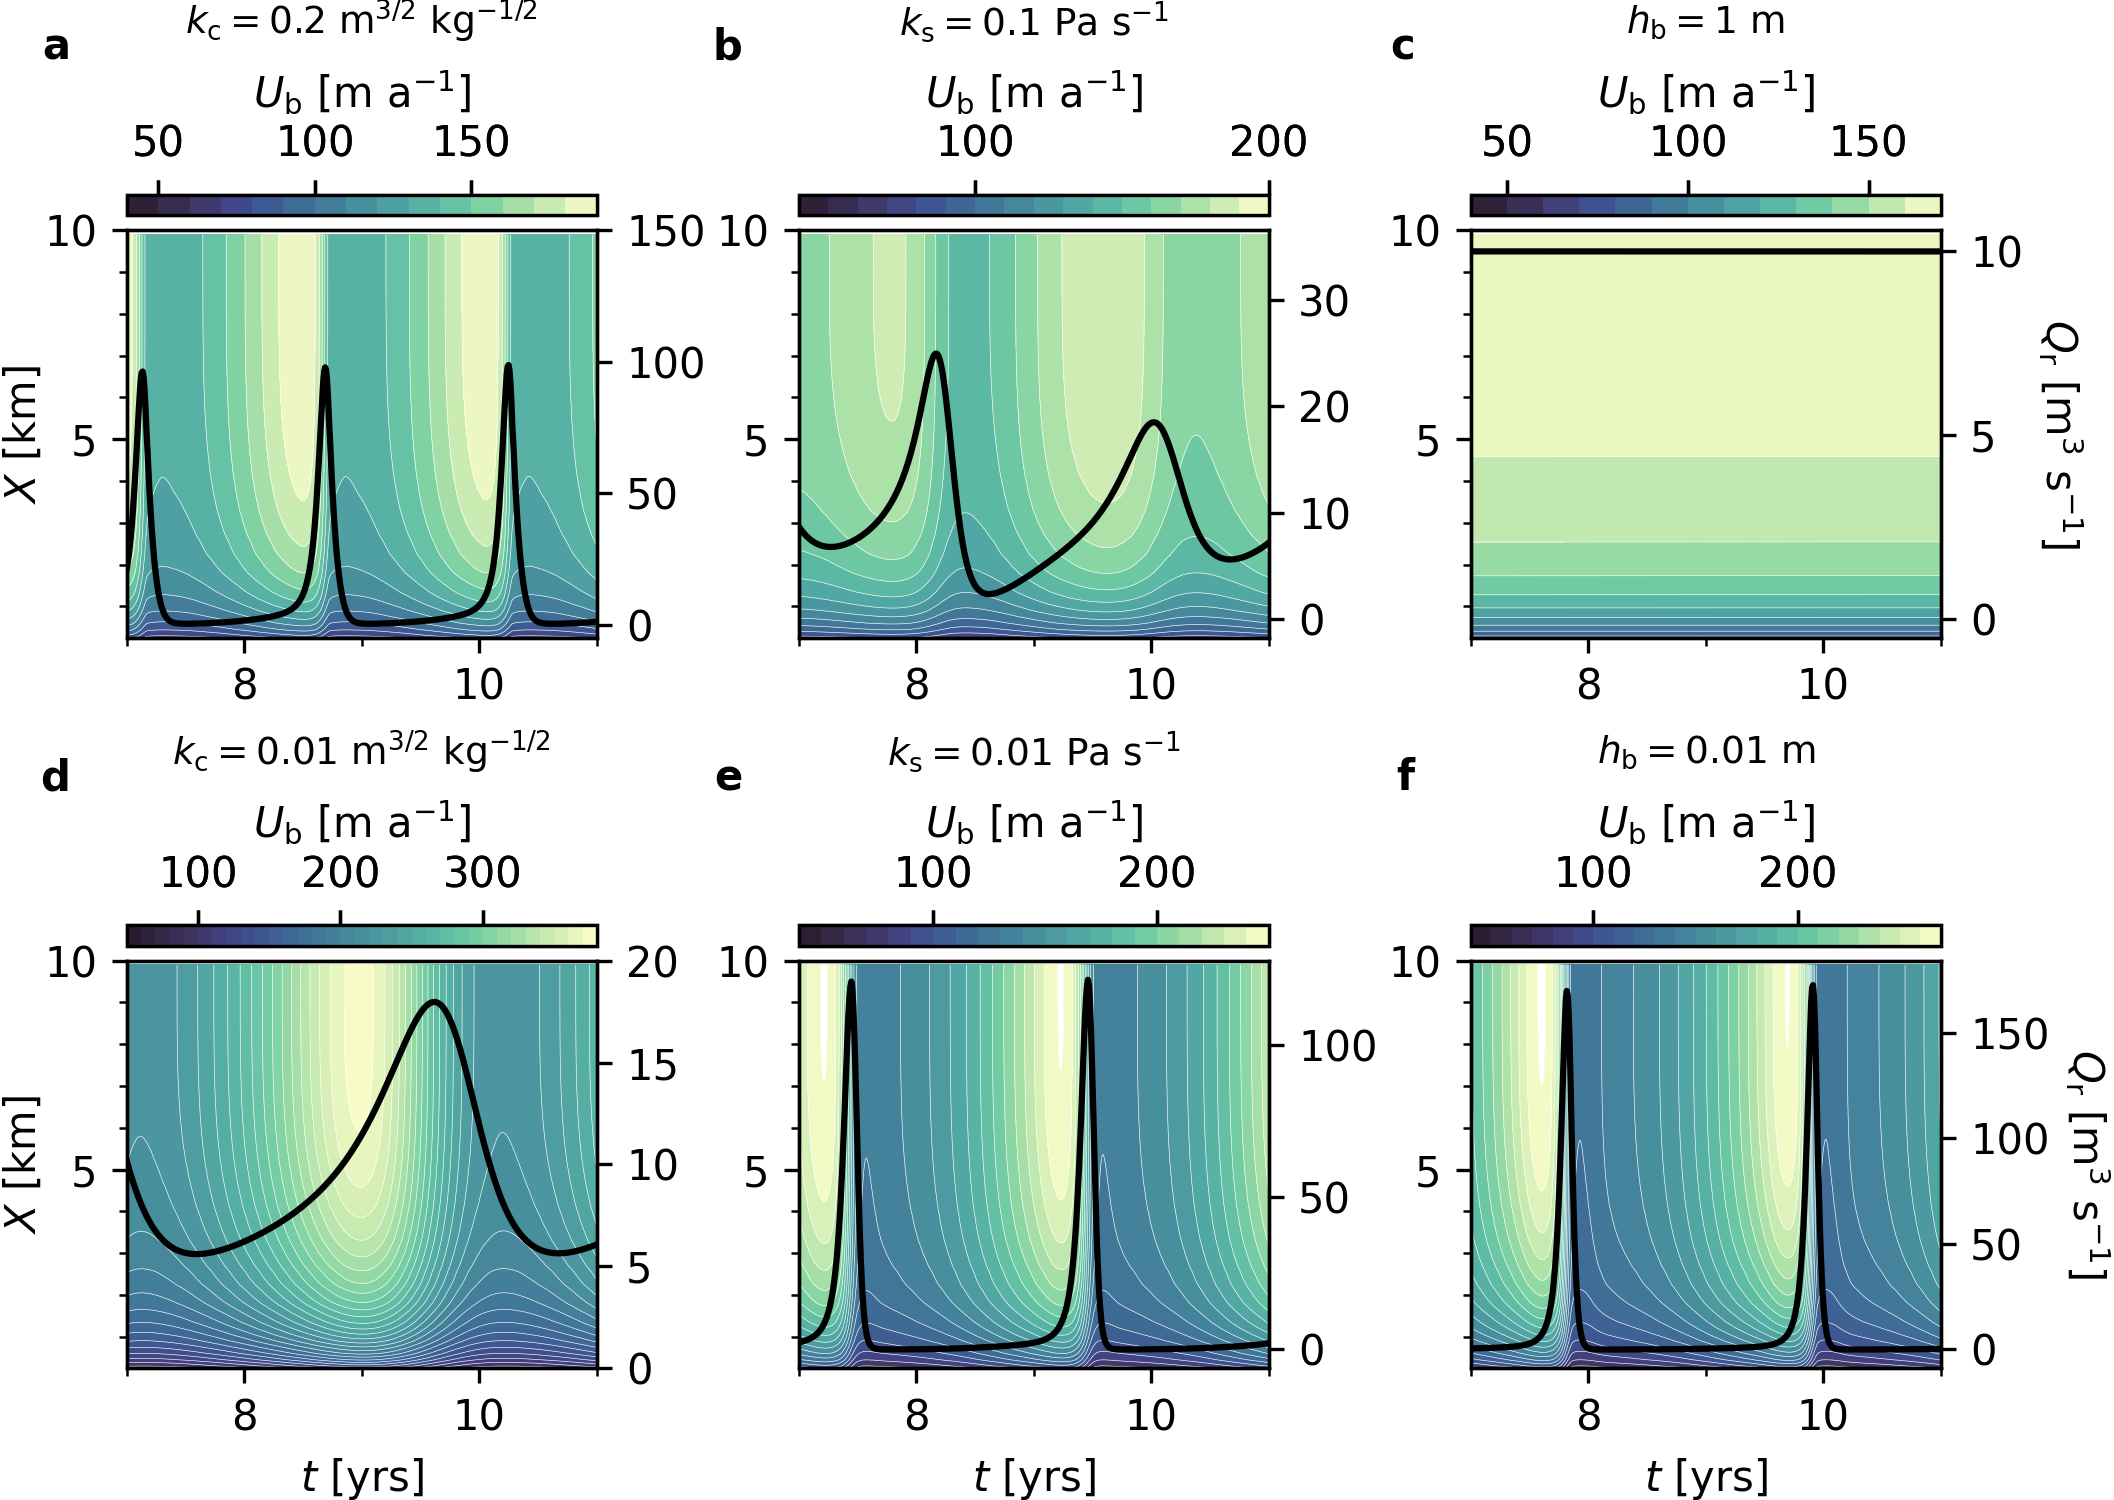
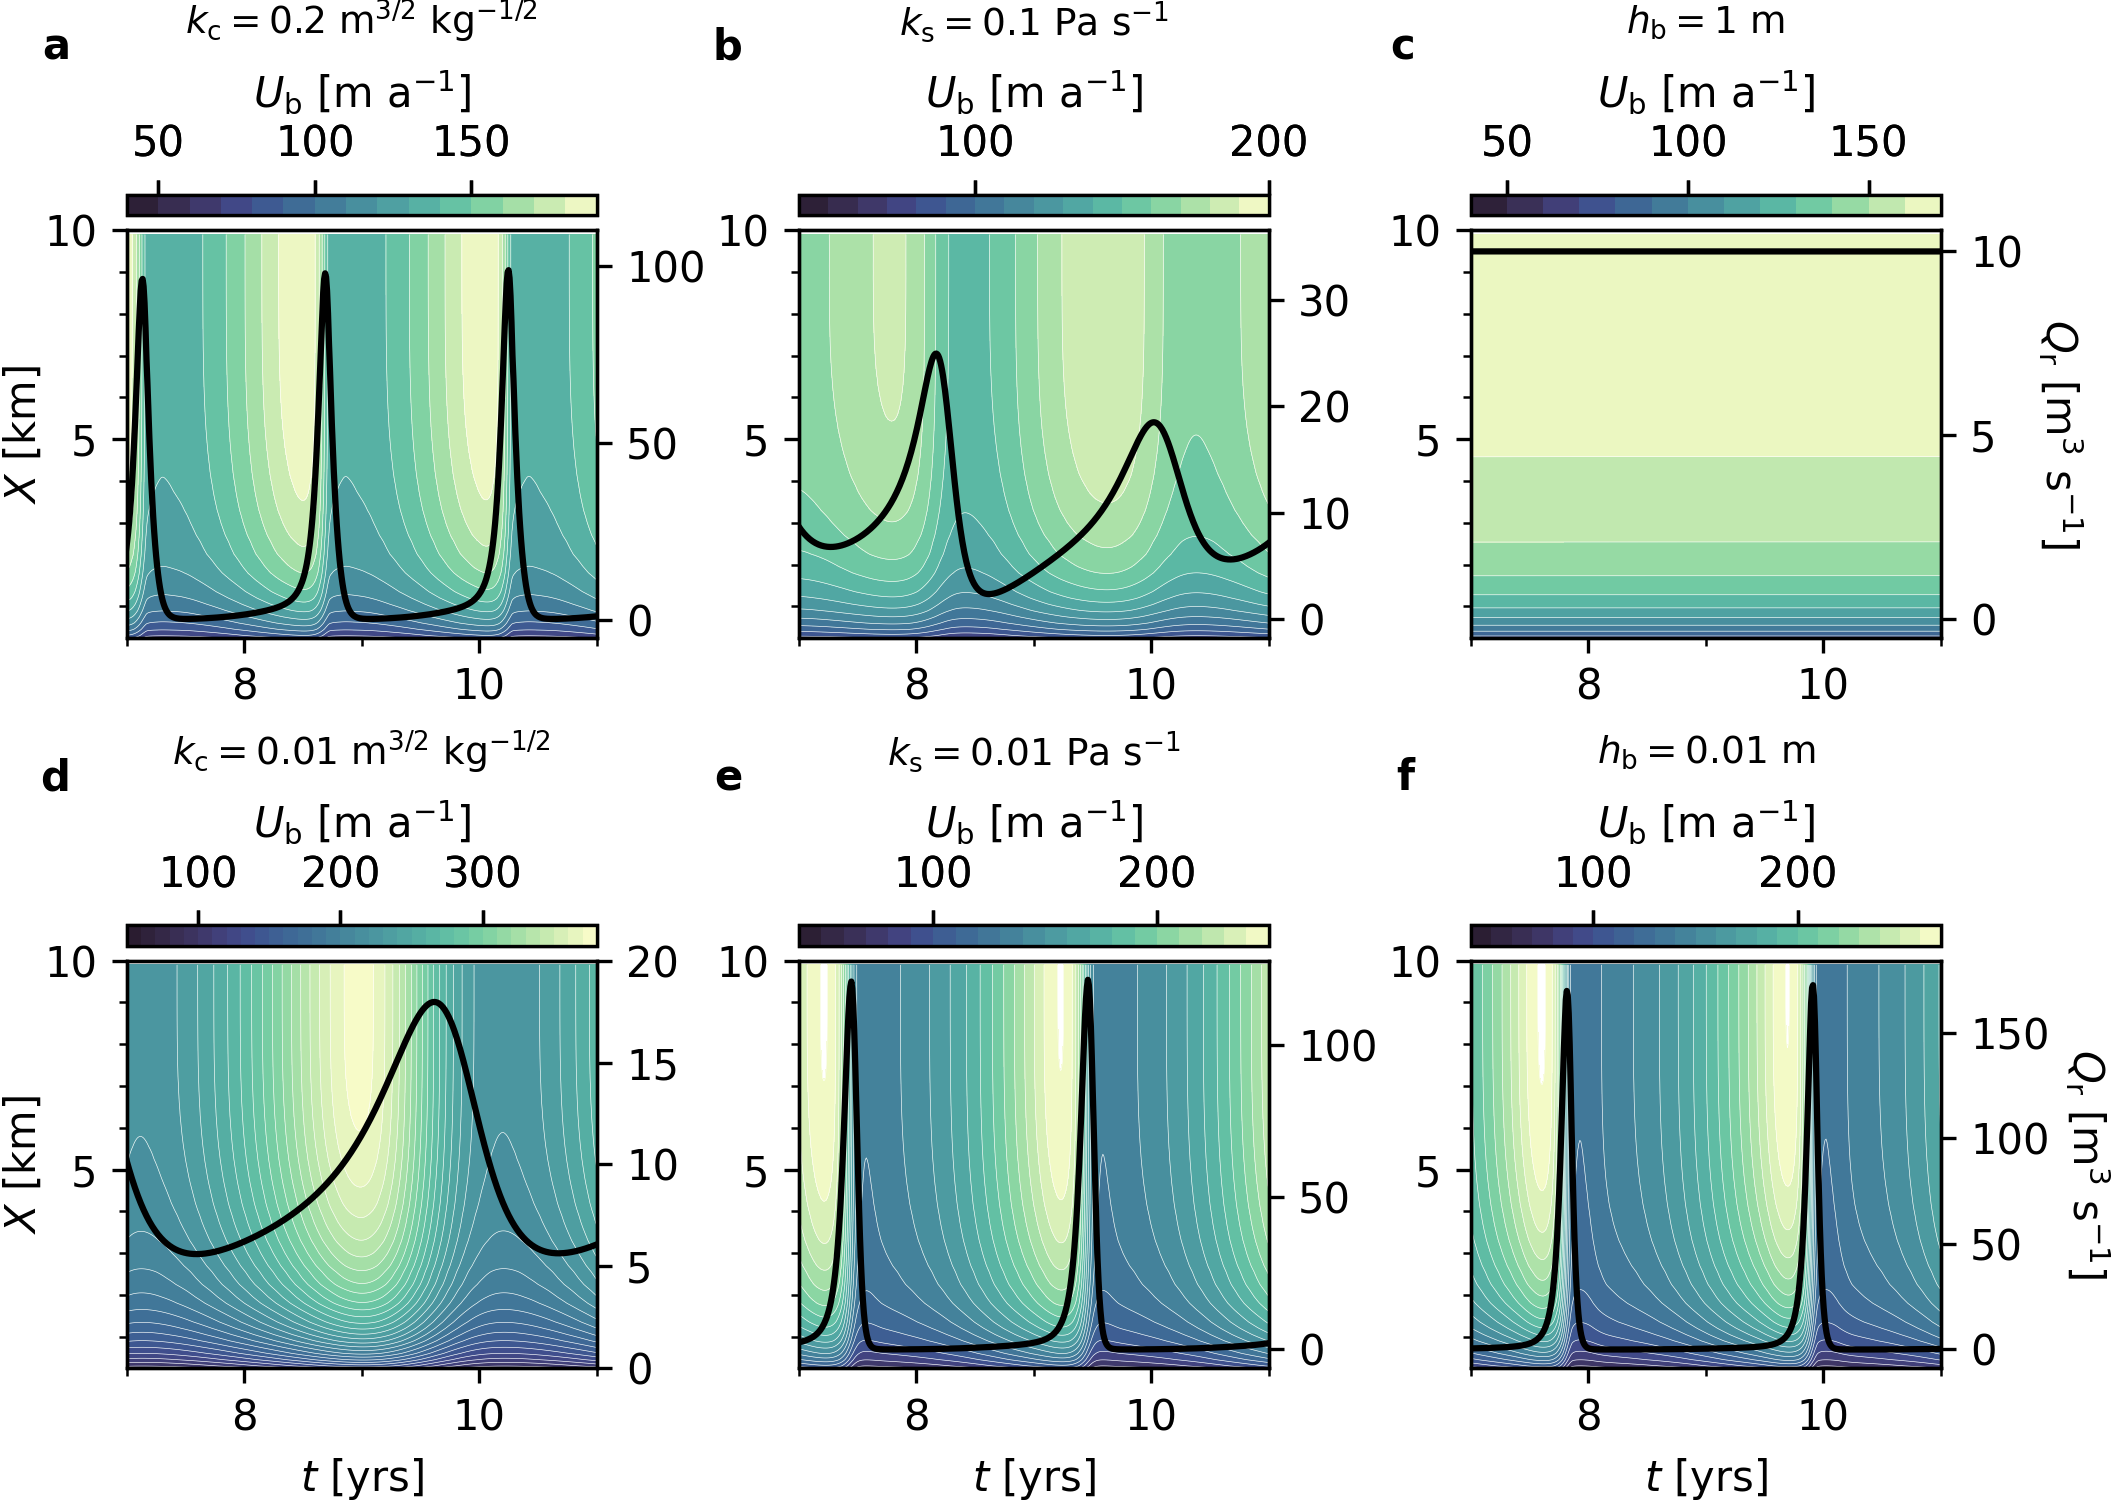
fixed span of high Kc case in velocity plots

diff --git a/synthetic/analysis/plot_main_figures.py b/synthetic/analysis/plot_main_figures.py
@@ -1332,7 +1332,7 @@ ax1r.plot(tt_HiKc, Qr_HiKc[lakepos, :], color='k', label='Qr', linewidth=1.5)
 #ax1r.set_ylabel('$Q_r$ [m$^3$ s$^{-1}$]', color='k', rotation=270, labelpad=15)  # Rotate label and adjust padding
 ax1r.tick_params(axis='y', labelcolor='k')
 ax1.set_xlim(7, 11)
-ax1r.set_ylim(-5, 150)
+ax1r.set_ylim(-5, 110)
 ax1.set_ylim(0.25, 10)  # Convert to km
 ticks_X = [5, 10]
 ax1.set_yticks(ticks_X)